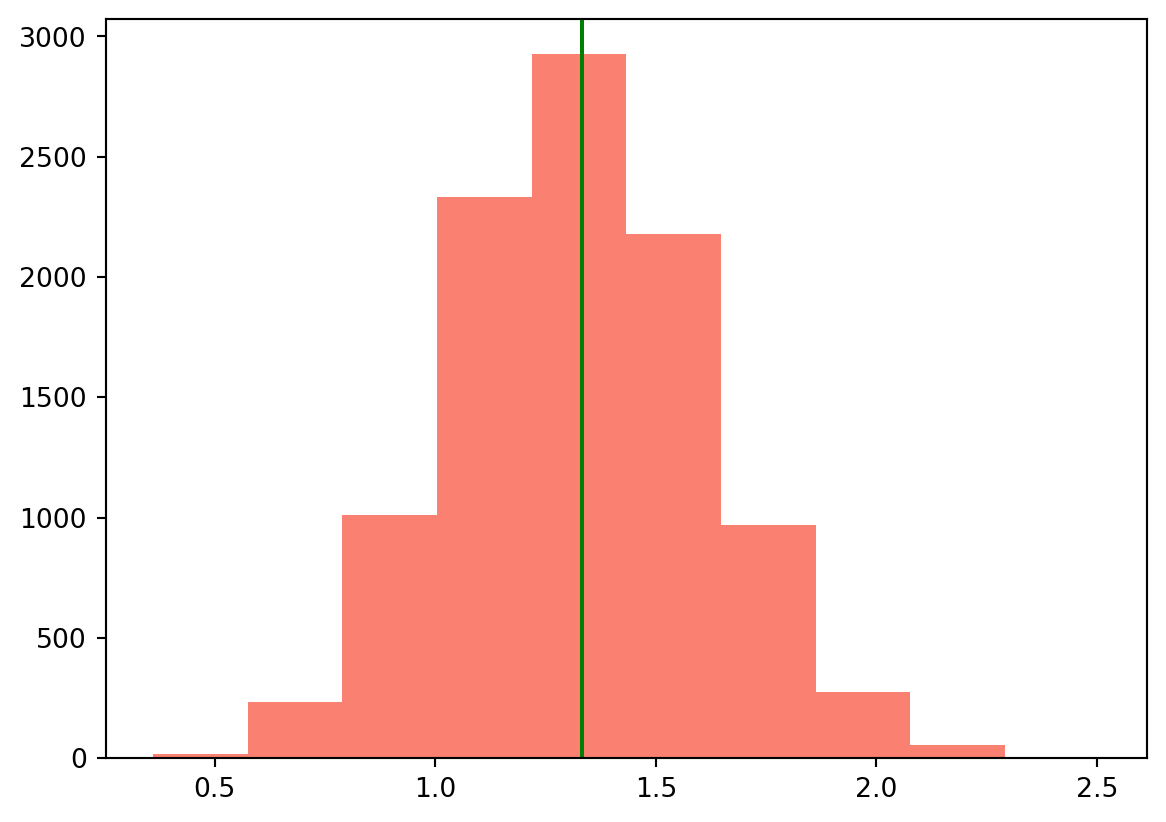
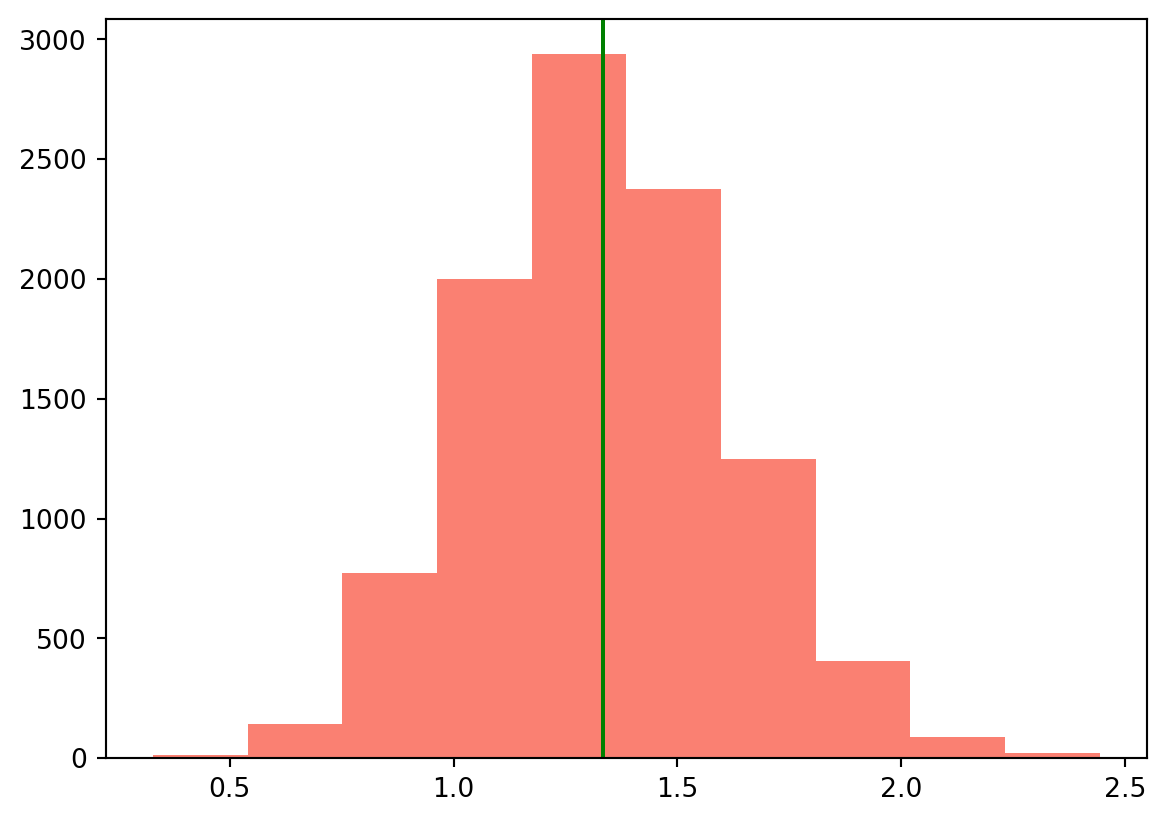
.

diff --git a/docs/docs/hw4.html b/docs/docs/hw4.html
@@ -57,22 +57,22 @@ pre > code.sourceCode > span > a:first-child::before { text-decoration: underlin
 </style>
 
 
-<script src="site_libs/quarto-nav/quarto-nav.js"></script>
-<script src="site_libs/quarto-nav/headroom.min.js"></script>
-<script src="site_libs/clipboard/clipboard.min.js"></script>
-<script src="site_libs/quarto-search/autocomplete.umd.js"></script>
-<script src="site_libs/quarto-search/fuse.min.js"></script>
-<script src="site_libs/quarto-search/quarto-search.js"></script>
-<meta name="quarto:offset" content="./">
-<script src="site_libs/quarto-html/quarto.js"></script>
-<script src="site_libs/quarto-html/popper.min.js"></script>
-<script src="site_libs/quarto-html/tippy.umd.min.js"></script>
-<script src="site_libs/quarto-html/anchor.min.js"></script>
-<link href="site_libs/quarto-html/tippy.css" rel="stylesheet">
-<link href="site_libs/quarto-html/quarto-syntax-highlighting.css" rel="stylesheet" id="quarto-text-highlighting-styles">
-<script src="site_libs/bootstrap/bootstrap.min.js"></script>
-<link href="site_libs/bootstrap/bootstrap-icons.css" rel="stylesheet">
-<link href="site_libs/bootstrap/bootstrap.min.css" rel="stylesheet" id="quarto-bootstrap" data-mode="light">
+<script src="../site_libs/quarto-nav/quarto-nav.js"></script>
+<script src="../site_libs/quarto-nav/headroom.min.js"></script>
+<script src="../site_libs/clipboard/clipboard.min.js"></script>
+<script src="../site_libs/quarto-search/autocomplete.umd.js"></script>
+<script src="../site_libs/quarto-search/fuse.min.js"></script>
+<script src="../site_libs/quarto-search/quarto-search.js"></script>
+<meta name="quarto:offset" content="../">
+<script src="../site_libs/quarto-html/quarto.js"></script>
+<script src="../site_libs/quarto-html/popper.min.js"></script>
+<script src="../site_libs/quarto-html/tippy.umd.min.js"></script>
+<script src="../site_libs/quarto-html/anchor.min.js"></script>
+<link href="../site_libs/quarto-html/tippy.css" rel="stylesheet">
+<link href="../site_libs/quarto-html/quarto-syntax-highlighting.css" rel="stylesheet" id="quarto-text-highlighting-styles">
+<script src="../site_libs/bootstrap/bootstrap.min.js"></script>
+<link href="../site_libs/bootstrap/bootstrap-icons.css" rel="stylesheet">
+<link href="../site_libs/bootstrap/bootstrap.min.css" rel="stylesheet" id="quarto-bootstrap" data-mode="light">
 <script id="quarto-search-options" type="application/json">{
   "location": "navbar",
   "copy-button": false,
@@ -102,7 +102,7 @@ pre > code.sourceCode > span > a:first-child::before { text-decoration: underlin
 }</script>
 
 
-<link rel="stylesheet" href="styles.css">
+<link rel="stylesheet" href="../styles.css">
 </head>
 
 <body class="nav-fixed">
@@ -112,7 +112,7 @@ pre > code.sourceCode > span > a:first-child::before { text-decoration: underlin
     <nav class="navbar navbar-expand-lg " data-bs-theme="dark">
       <div class="navbar-container container-fluid">
       <div class="navbar-brand-container mx-auto">
-    <a class="navbar-brand" href="./index.html">
+    <a class="navbar-brand" href="../index.html">
     <span class="navbar-title">YONG GYU LEE</span>
     </a>
   </div>
@@ -123,20 +123,20 @@ pre > code.sourceCode > span > a:first-child::before { text-decoration: underlin
           <div class="collapse navbar-collapse" id="navbarCollapse">
             <ul class="navbar-nav navbar-nav-scroll me-auto">
   <li class="nav-item">
-    <a class="nav-link" href="./index.html"> 
+    <a class="nav-link" href="../index.html"> 
 <span class="menu-text">Home</span></a>
   </li>  
   <li class="nav-item">
-    <a class="nav-link" href="./hw3.html"> 
+    <a class="nav-link" href="../about.html"> 
+<span class="menu-text">About</span></a>
+  </li>  
+  <li class="nav-item">
+    <a class="nav-link" href="../hw3.html"> 
 <span class="menu-text">hw3</span></a>
   </li>  
   <li class="nav-item">
-    <a class="nav-link active" href="./hw4.html" aria-current="page"> 
+    <a class="nav-link" href="../hw4.html"> 
 <span class="menu-text">hw4</span></a>
-  </li>  
-  <li class="nav-item">
-    <a class="nav-link" href="./blog.qmd"> 
-<span class="menu-text">Blog</span></a>
   </li>  
 </ul>
           </div> <!-- /navcollapse -->
@@ -177,7 +177,7 @@ pre > code.sourceCode > span > a:first-child::before { text-decoration: underlin
 <p>표본 분산 계산 시 왜 n-1로 나누는지 알아보도록 하겠습니다.</p>
 <p>균일분포 (3, 7)에서 20개의 표본을 뽑아서 분산을 2가지 방법으로 추정해보세요.</p>
 <p>n-1로 나눈 것을 s_2, n으로 나눈 것을 k_2로 정의하고, s_2의 분포와 k_2의 분포를 그려주세요! (10000개 사용) 각 분포 그래프에 모분산의 위치에 녹색 막대를 그려주세요. 결과를 살펴보고, 왜 n-1로 나눈 것을 분산을 추정하는 지표로 사용하는 것이 타당한지 써주세요!</p>
-<div id="bc07b0fd" class="cell" data-execution_count="1">
+<div id="29e06a7c" class="cell" data-execution_count="1">
 <div class="sourceCode cell-code" id="cb1"><pre class="sourceCode python code-with-copy"><code class="sourceCode python"><span id="cb1-1"><a href="#cb1-1" aria-hidden="true" tabindex="-1"></a><span class="im">import</span> numpy <span class="im">as</span> np</span>
 <span id="cb1-2"><a href="#cb1-2" aria-hidden="true" tabindex="-1"></a><span class="im">from</span> scipy.stats <span class="im">import</span> uniform</span>
 <span id="cb1-3"><a href="#cb1-3" aria-hidden="true" tabindex="-1"></a><span class="im">import</span> seaborn <span class="im">as</span> sns</span>
@@ -213,7 +213,7 @@ pre > code.sourceCode > span > a:first-child::before { text-decoration: underlin
 <pre><code>&lt;Figure size 672x480 with 0 Axes&gt;</code></pre>
 </div>
 </div>
-<div id="c5fd6559" class="cell" data-execution_count="2">
+<div id="685fdb6d" class="cell" data-execution_count="2">
 <div class="sourceCode cell-code" id="cb3"><pre class="sourceCode python code-with-copy"><code class="sourceCode python"><span id="cb3-1"><a href="#cb3-1" aria-hidden="true" tabindex="-1"></a>mo_var <span class="op">=</span> uniform.var(loc<span class="op">=</span><span class="dv">3</span>,scale<span class="op">=</span><span class="dv">4</span>)</span>
 <span id="cb3-2"><a href="#cb3-2" aria-hidden="true" tabindex="-1"></a>plt.hist(k_2_list, color <span class="op">=</span> <span class="st">"salmon"</span>)</span>
 <span id="cb3-3"><a href="#cb3-3" aria-hidden="true" tabindex="-1"></a>plt.axvline(x_var, color<span class="op">=</span><span class="st">"red"</span>)</span>
@@ -222,7 +222,7 @@ pre > code.sourceCode > span > a:first-child::before { text-decoration: underlin
 <div class="cell-output cell-output-display">
 <div>
 <figure class="figure">
-<p><img src="hw4_files/figure-html/cell-3-output-1.png" width="583" height="411" class="figure-img"></p>
+<p><img src="hw4_files/figure-html/cell-3-output-1.png" width="597" height="411" class="figure-img"></p>
 </figure>
 </div>
 </div>
@@ -230,22 +230,22 @@ pre > code.sourceCode > span > a:first-child::before { text-decoration: underlin
 <pre><code>&lt;Figure size 672x480 with 0 Axes&gt;</code></pre>
 </div>
 </div>
-<div id="380472d2" class="cell" data-execution_count="3">
+<div id="dc197842" class="cell" data-execution_count="3">
 <div class="sourceCode cell-code" id="cb5"><pre class="sourceCode python code-with-copy"><code class="sourceCode python"><span id="cb5-1"><a href="#cb5-1" aria-hidden="true" tabindex="-1"></a>np.mean(s_2_list) </span></code><button title="Copy to Clipboard" class="code-copy-button"><i class="bi"></i></button></pre></div>
 <div class="cell-output cell-output-display" data-execution_count="3">
-<pre><code>np.float64(1.3331207959704952)</code></pre>
+<pre><code>np.float64(1.335165375641702)</code></pre>
 </div>
 </div>
-<div id="a51f88dd" class="cell" data-execution_count="4">
+<div id="f9eeab3a" class="cell" data-execution_count="4">
 <div class="sourceCode cell-code" id="cb7"><pre class="sourceCode python code-with-copy"><code class="sourceCode python"><span id="cb7-1"><a href="#cb7-1" aria-hidden="true" tabindex="-1"></a>np.mean(k_2_list)</span></code><button title="Copy to Clipboard" class="code-copy-button"><i class="bi"></i></button></pre></div>
 <div class="cell-output cell-output-display" data-execution_count="4">
-<pre><code>np.float64(1.2664647561719706)</code></pre>
+<pre><code>np.float64(1.268407106859617)</code></pre>
 </div>
 </div>
 <ol start="3" type="1">
 <li>그래프 상으론 차이를 잘 모르겠지만 두 결과 값과</li>
 </ol>
-<div id="9cec54ce" class="cell" data-execution_count="5">
+<div id="832550c6" class="cell" data-execution_count="5">
 <div class="sourceCode cell-code" id="cb9"><pre class="sourceCode python code-with-copy"><code class="sourceCode python"><span id="cb9-1"><a href="#cb9-1" aria-hidden="true" tabindex="-1"></a>x_var <span class="op">=</span> uniform.var(<span class="dv">3</span>,<span class="dv">4</span>)</span>
 <span id="cb9-2"><a href="#cb9-2" aria-hidden="true" tabindex="-1"></a>x_var</span></code><button title="Copy to Clipboard" class="code-copy-button"><i class="bi"></i></button></pre></div>
 <div class="cell-output cell-output-display" data-execution_count="5">
